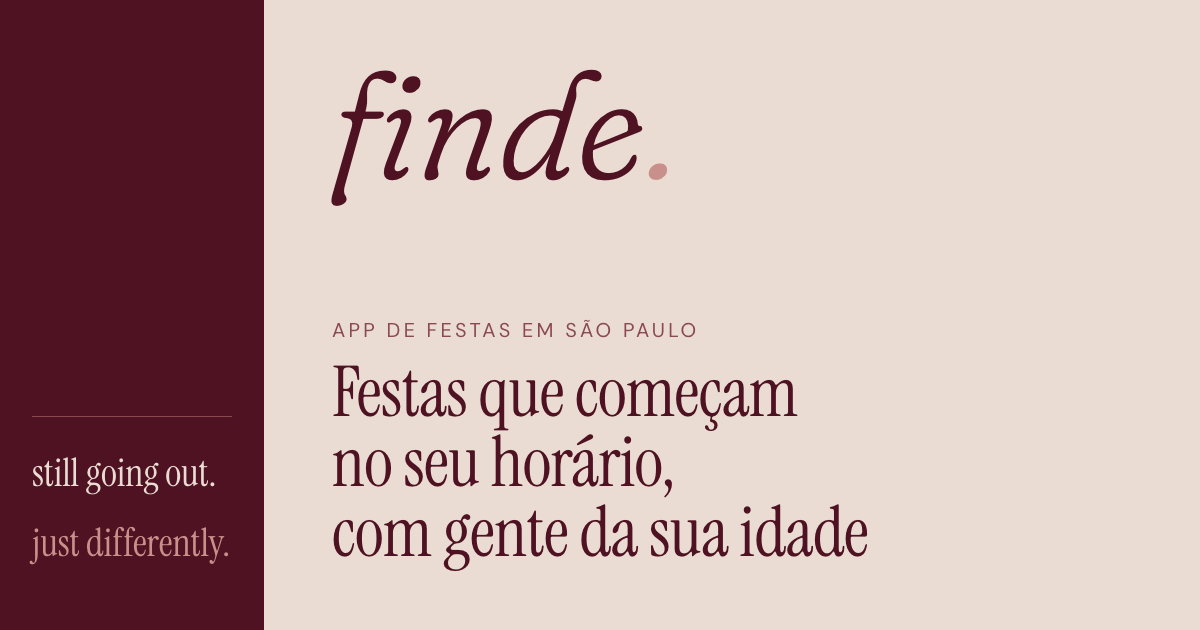
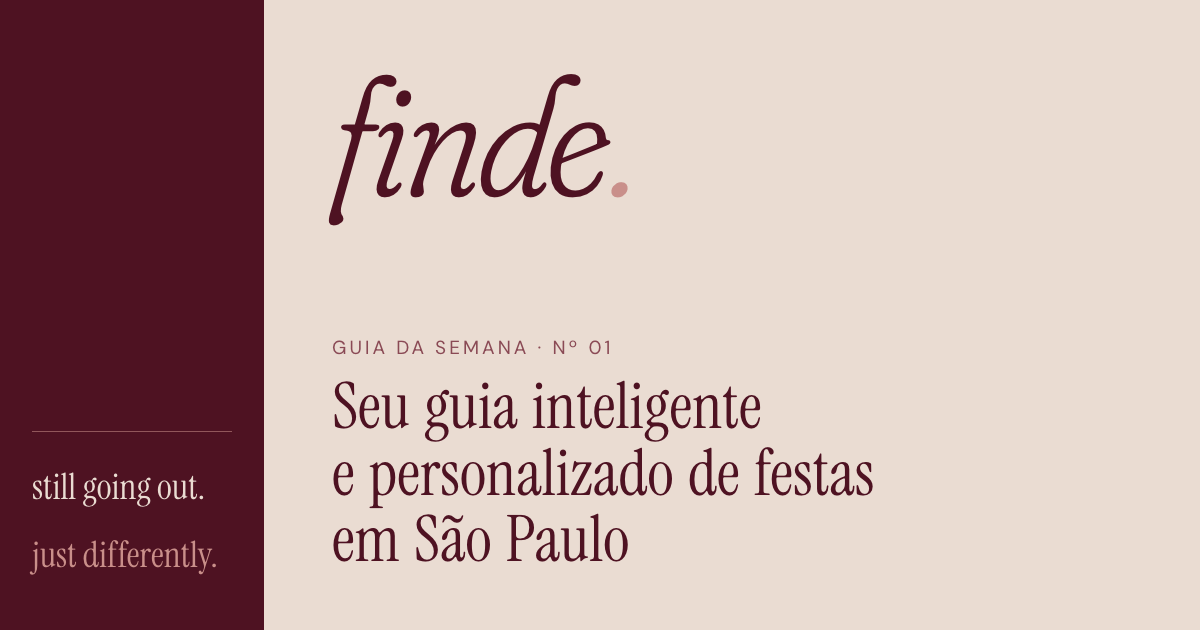
Tirar "gente da sua fase" da prévia de link
A prévia que o WhatsApp mostra do app e do convite ainda dizia "Festas com
gente da sua fase", e a imagem de compartilhar falava em "gente da sua
idade". O texto do app passa a ser a tagline do deck ("Seu guia inteligente
e personalizado de festas em São Paulo"); o do convite, "Uma festa escolhida
no finde. Diga se você está dentro."

A imagem foi refeita com o mesmo desenho e o título do deck, e ganhou
?v=20261126 no endereço para o WhatsApp não reaproveitar a prévia antiga.
Um teste novo barra idade e "da sua fase" nas metas de index, landing e
plano; os testes que fixavam o endereço da imagem aceitam a versão.

diff --git a/prototipo/v1-festas/teste/api.test.js b/prototipo/v1-festas/teste/api.test.js
@@ -269,10 +269,10 @@ test('/p/:id: 404 quando não existe; quando existe, as metas de compartilhament
   assert.match(sim.corpo, /<meta property="og:title" content="Exemplo · Bora no sábado\? Sábado Groove, 19h00 · média 31 \(pela produtora\)">/);
   assert.match(sim.corpo, /<title>Exemplo · Bora no sábado\? Sábado Groove, 19h00 · média 31 \(pela produtora\)<\/title>/);
   assert.match(sim.corpo, /<meta property="og:description" content="[^"]*Média de 31 anos, informada pela produtora\.">/);
-  assert.match(sim.corpo, /<meta property="og:image" content="http:\/\/127\.0\.0\.1:\d+\/compartilhar\.png">/);
+  assert.match(sim.corpo, /<meta property="og:image" content="http:\/\/127\.0\.0\.1:\d+\/compartilhar\.png\?v=\d{8}">/);
   assert.equal((await chamar('GET', '/plano.html')).status, 404);
   const inicio = await chamar('GET', '/');
-  assert.match(inicio.corpo, /og:image" content="http:\/\/127\.0\.0\.1:\d+\/compartilhar\.png"/);
+  assert.match(inicio.corpo, /og:image" content="http:\/\/127\.0\.0\.1:\d+\/compartilhar\.png\?v=\d{8}"/);
   assert.match(inicio.corpo, /apple-touch-icon" href="\/icone-180\.png"/);
 });
 
@@ -281,16 +281,16 @@ test('prévia do link atrás do proxy do Fly: a imagem sai em https quando X-For
   for (const pagina of ['/', '/app', `/p/${criado.corpo.id}`]) {
     const imagem = async (cabecalhos) => (await chamar('GET', pagina, undefined, cabecalhos)).corpo
       .match(/<meta property="og:image" content="([^"]*)">/)[1];
-    assert.match(await imagem({ 'X-Forwarded-Proto': 'https' }), /^https:\/\/127\.0\.0\.1:\d+\/compartilhar\.png$/, pagina);
+    assert.match(await imagem({ 'X-Forwarded-Proto': 'https' }), /^https:\/\/127\.0\.0\.1:\d+\/compartilhar\.png\?v=\d{8}$/, pagina);
     assert.match(await imagem({ 'X-Forwarded-Proto': 'HTTPS, http' }), /^https:\/\//, pagina);
     // Sem o cabeçalho, ou com qualquer outra coisa nele, fica http.
     for (const outro of [{}, { 'X-Forwarded-Proto': 'http' }, { 'X-Forwarded-Proto': 'javascript' }, { 'X-Forwarded-Proto': 'https://mal' }]) {
-      assert.match(await imagem(outro), /^http:\/\/127\.0\.0\.1:\d+\/compartilhar\.png$/, `${pagina} ${JSON.stringify(outro)}`);
+      assert.match(await imagem(outro), /^http:\/\/127\.0\.0\.1:\d+\/compartilhar\.png\?v=\d{8}$/, `${pagina} ${JSON.stringify(outro)}`);
     }
   }
   // Host estranho: nada de origem.
   const r = await bruto('GET', '/', { Host: 'mal"><script>', 'X-Forwarded-Proto': 'https' });
-  assert.match(r.corpo.toString('utf8'), /<meta property="og:image" content="\/compartilhar\.png">/);
+  assert.match(r.corpo.toString('utf8'), /<meta property="og:image" content="\/compartilhar\.png\?v=\d{8}">/);
 });
 
 test('planos: festa inexistente, id torto, resposta estranha, método errado', async () => {

diff --git a/prototipo/v1-festas/teste/sem-idade.test.js b/prototipo/v1-festas/teste/sem-idade.test.js
@@ -30,3 +30,14 @@ test('o app não pergunta a idade nem mostra a idade do público no detalhe ou n
   assert.doesNotMatch(perguntas, /chave: 'idade'/);
   assert.doesNotMatch(app, /'Idade do público'|divulgou a média de idade|'Com média informada'/);
 });
+
+test('a prévia de link do app, da landing e do convite não fala de idade nem de fase', () => {
+  for (const nome of ['index.html', 'landing.html', 'plano.html']) {
+    const html = fs.readFileSync(path.join(__dirname, '..', 'publico', nome), 'utf8');
+    const metas = (html.match(/<meta (?:name|property)="(?:description|og:[a-z:]+|twitter:[a-z]+)"[^>]*>/g) || []).join('\n');
+    assert.ok(metas.includes('og:description'), nome);
+    assert.doesNotMatch(metas, /\bidade|da sua fase/i, nome);
+    // A imagem leva versão no endereço: o WhatsApp guarda a prévia pelo link da imagem.
+    if (nome !== 'plano.html') assert.match(metas, /compartilhar\.png\?v=\d{8}"/, nome);
+  }
+});

diff --git a/prototipo/v1-festas/publico/index.html b/prototipo/v1-festas/publico/index.html
@@ -11,8 +11,8 @@
   <meta name="finde-tiles" content="__TILES__">
   <meta property="og:type" content="website">
   <meta property="og:title" content="finde. still going out. just differently.">
-  <meta property="og:description" content="Festas com gente da sua fase, num horário que cabe na sua rotina.">
-  <meta property="og:image" content="__ORIGEM__/compartilhar.png">
+  <meta property="og:description" content="Seu guia inteligente e personalizado de festas em São Paulo.">
+  <meta property="og:image" content="__ORIGEM__/compartilhar.png?v=20261126">
   <meta property="og:image:width" content="1200">
   <meta property="og:image:height" content="630">
   <meta name="twitter:card" content="summary_large_image">

diff --git a/prototipo/v1-festas/servidor.js b/prototipo/v1-festas/servidor.js
@@ -1052,7 +1052,7 @@ function montarServidor({
   // convite (U24), sempre em endereço absoluto.
   const pagina = (req, res, nome, opcoes = {}) => enviarPagina(req, res, path.join(PUBLICO, nome), {
     ...opcoes,
-    enderecos: { ...enderecos, __IMAGEM_COMPARTILHAR__: `${origem(req)}/compartilhar.png`, ...(opcoes.enderecos || {}) },
+    enderecos: { ...enderecos, __IMAGEM_COMPARTILHAR__: `${origem(req)}/compartilhar.png?v=20261126`, ...(opcoes.enderecos || {}) },
   });
 
   // A landing vem montada: o destaque do herói e as telas da demo saem daqui.

diff --git a/prototipo/v1-festas/publico/plano.html b/prototipo/v1-festas/publico/plano.html
@@ -10,7 +10,7 @@
   <meta name="finde-site" content="__URL_SITE__">
   <meta property="og:type" content="website">
   <meta property="og:title" content="Bora? Um convite do finde.">
-  <meta property="og:description" content="Uma festa com gente da sua fase. Diga se você está dentro.">
+  <meta property="og:description" content="Uma festa escolhida no finde. Diga se você está dentro.">
   <meta property="og:image" content="__IMAGEM_COMPARTILHAR__">
   <meta property="og:image:width" content="1200">
   <meta property="og:image:height" content="630">

diff --git a/prototipo/v1-festas/publico/landing.html b/prototipo/v1-festas/publico/landing.html
@@ -9,7 +9,7 @@
   <meta property="og:type" content="website">
   <meta property="og:title" content="finde. seu guia inteligente de festas em São Paulo">
   <meta property="og:description" content="Still going out. Just differently.">
-  <meta property="og:image" content="__ORIGEM__/compartilhar.png">
+  <meta property="og:image" content="__ORIGEM__/compartilhar.png?v=20261126">
   <meta property="og:image:width" content="1200">
   <meta property="og:image:height" content="630">
   <meta name="twitter:card" content="summary_large_image">

diff --git a/prototipo/v1-festas/README.md b/prototipo/v1-festas/README.md
@@ -151,7 +151,7 @@ A base fictícia diz `"ficticia": true` e uma `referencia`: ao ler, o servidor d
 
 ## Imagens
 
-`publico/favicon.svg` (o monograma "f." com o contorno real da Fraunces itálica 300, SOFT 100, WONK 1), `publico/icone-180.png` (apple-touch-icon) e `publico/compartilhar.png` (1200 × 630) foram gerados fora do projeto. O favicon e o ícone saíram de um script avulso com `@napi-rs/canvas` e a Fraunces baixada do Google Fonts. A imagem de compartilhamento (16/11/2026) é um HTML com as fontes locais de `publico/fontes/`, renderizado no Chrome headless: wordmark, rótulo e título da landing sobre nude, e a assinatura numa coluna bordô. Ela não leva hora nem média de festa, porque também é a prévia de todo convite em `/p/:id`. Só os arquivos gerados ficam aqui.
+`publico/favicon.svg` (o monograma "f." com o contorno real da Fraunces itálica 300, SOFT 100, WONK 1), `publico/icone-180.png` (apple-touch-icon) e `publico/compartilhar.png` (1200 × 630) foram gerados fora do projeto. O favicon e o ícone saíram de um script avulso com `@napi-rs/canvas` e a Fraunces baixada do Google Fonts. A imagem de compartilhamento (16/11/2026, refeita em 26/11 com a tagline do pitch deck) é um HTML com as fontes locais de `publico/fontes/`, renderizado no Chrome headless: wordmark, rótulo e título da landing sobre nude, e a assinatura numa coluna bordô. Ela não leva hora nem média de festa, porque também é a prévia de todo convite em `/p/:id`. Só os arquivos gerados ficam aqui.
 
 `publico/cartazes/<id>.webp` (720 × 900, 37 arquivos, 0,72 MB) são cartazes tipográficos fictícios, um por festa, como uma produtora pequena postaria: sete famílias de composição pelo som, fontes do sistema do Mac, nenhuma foto, nome ou marca reais. Foram gerados por um script avulso com `@napi-rs/canvas`, fora do projeto.
 
